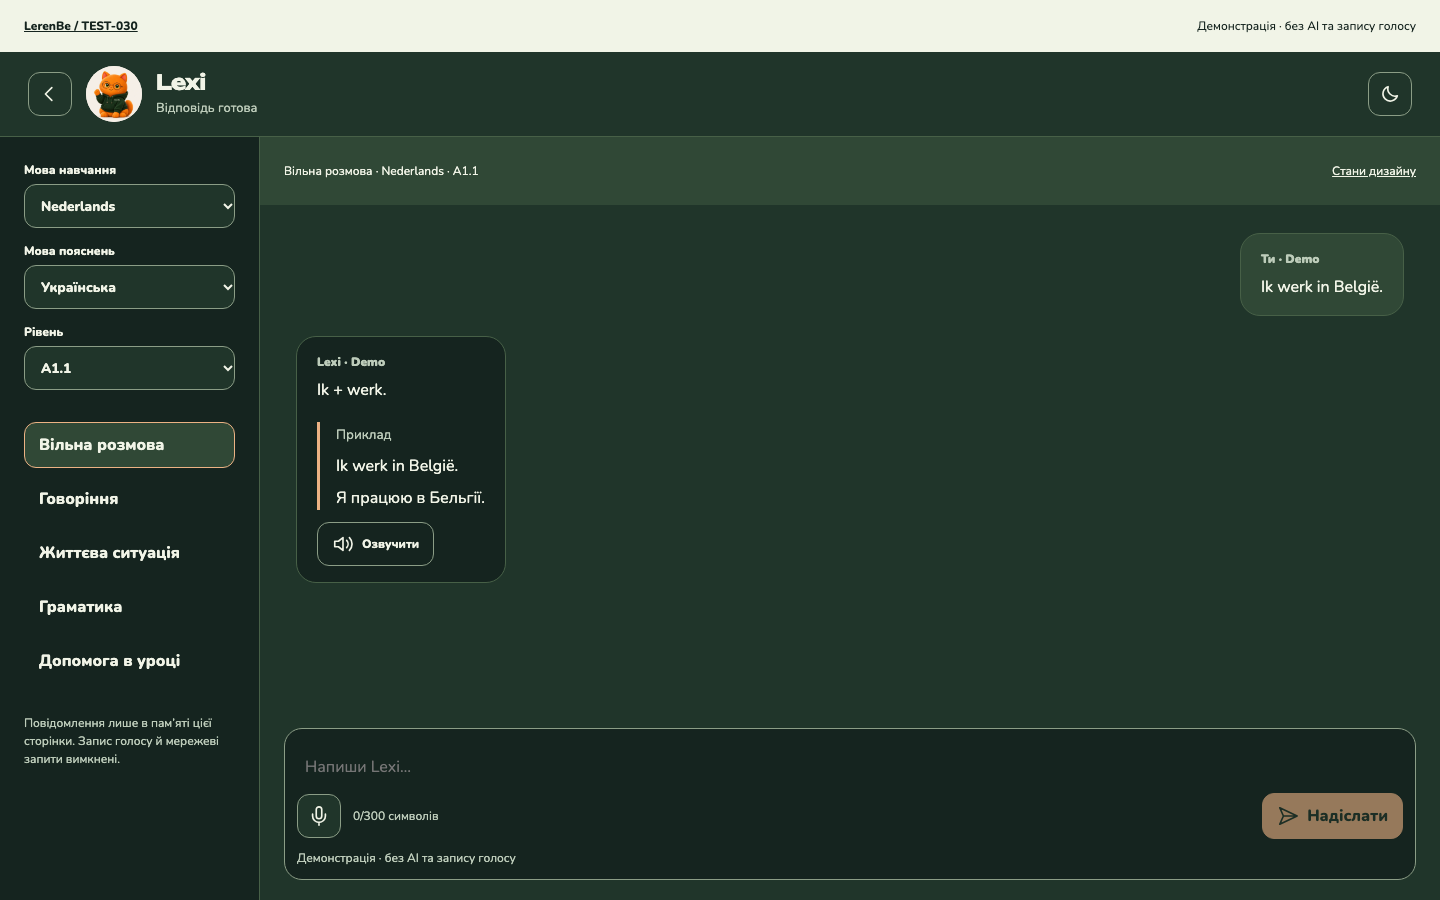
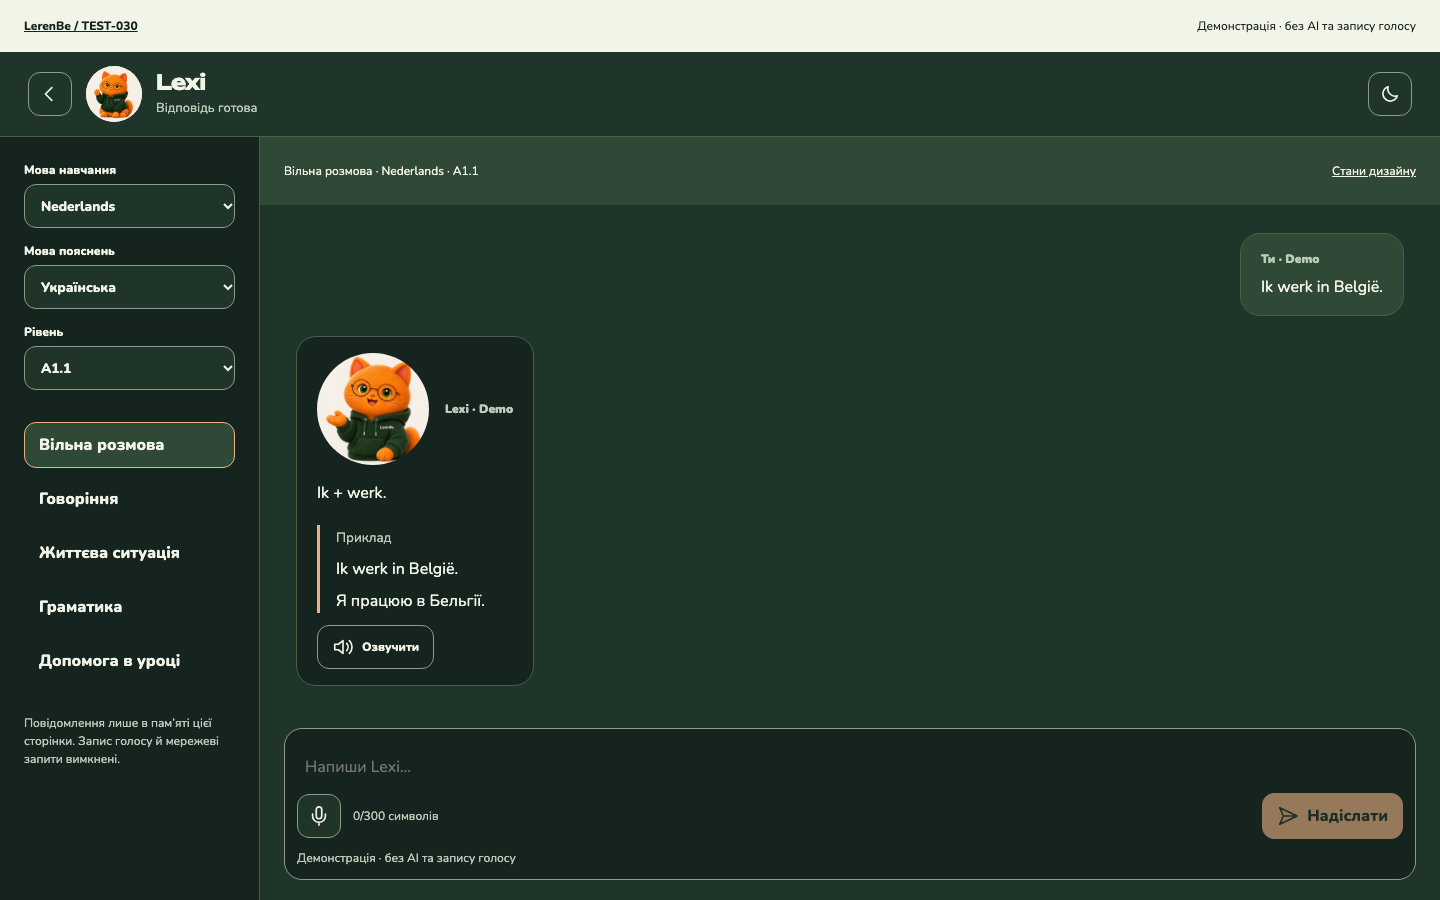
Keep Lexi visibly present in every assistant reply

Changed region(s): [[0.2188, 0.3733, 0.375, 0.56], [0.2188, 0.5911, 0.3438, 0.6844], [0.2188, 0.7156, 0.2812, 0.7467]]

diff --git a/design-lab/test-030/lexi/chat.js b/design-lab/test-030/lexi/chat.js
@@ -6,14 +6,14 @@ export function mountLexiChat(root,{engine,voice=null,demo=false,initial={},cont
  if(!engine?.send||!engine?.on||!engine?.message)throw Error('LerenLexi send/on/message port required');
  const s={ui:'uk',target:'nl',level:'a11',scenario:'free',scene:'shop',theme:'light',state:'welcome',messages:[],draft:'',error:null,pending:null,busy:false,notice:'',until:0,...initial};let epoch=0,unsub,interval,disposed=false,stopVoice;
  const t=()=>copy(s.ui),max=()=>['grammar','lesson'].includes(s.scenario)?600:300,style=()=>({free:'talk',speaking:'slow',roleplay:'teacher'})[s.scenario];
- function avatar(size=''){const emotion=({welcome:'welcome',listening:'listening',thinking:'thinking',speaking:'speaking',correct:'success',incorrect:'encourage',error:'encourage',offline:'encourage',idle:'speaking'})[s.state];return `<span class="avatar ${size} ${emotion}" role="img" aria-label="Lexi"></span>`}
+ function avatar(size='',emotion=({welcome:'welcome',listening:'listening',thinking:'thinking',speaking:'speaking',correct:'success',incorrect:'encourage',error:'encourage',offline:'encourage',idle:'speaking'})[s.state]){return `<span class="avatar ${size} ${emotion}" role="img" aria-label="Lexi"></span>`}
  const select=(name,values,label)=>`<label>${escape(label)}<select name="${name}">${Object.entries(values).map(([id,label])=>`<option value="${id}" ${s[name]===id?'selected':''}>${escape(label)}</option>`).join('')}</select></label>`;
  const btn=(action,label,icon='',cls='',disabled=false)=>`<button type="button" data-action="${action}" class="btn ${cls}" ${disabled?'disabled':''}>${icon?svg(icon):''}<span>${escape(label)}</span></button>`;
  function stateText(){return t()[({welcome:'welcome',listening:'listen',thinking:'think',speaking:'speak',correct:'success',incorrect:'incorrect',idle:'idle'})[s.state]]||engine.message(s.error?.code||'offline',s.ui)}
  function feedback(result){if(result.kind==='ask')return `<p dir="auto">${escape(result.answer)}</p>${(result.examples||[]).slice(0,3).map(e=>`<blockquote><small>${escape(t().example)}</small><p lang="${escape(e.lang)}" dir="ltr">${escape(e.text)}</p><p dir="auto">${escape(e.translation)}</p></blockquote>`).join('')}`;
  const correction=result.correction&&style()!=='talk'?`<section class="ai-fix"><strong>${escape(t().corrected)}</strong><del lang="${s.target}" dir="ltr">${escape(result.correction.original)}</del><b lang="${s.target}" dir="ltr">${escape(result.correction.corrected)}</b><p dir="auto">${escape(result.correction.explanation)}</p></section>`:'';
  return `<p lang="${s.target}" dir="ltr">${escape(result.reply)}</p>${result.translation?`<details><summary>${escape(t().translation)}</summary><p dir="auto">${escape(result.translation)}</p></details>`:''}${correction}`}
- function transcript(){return s.messages.map((m,i)=>`<article class="g-bub ${m.role==='user'?'me':'them'}"><span class="author">${m.role==='user'?escape(t().you):'Lexi'} ${demo?'· Demo':''}</span>${m.role==='user'?`<p dir="auto">${escape(m.content)}</p>`:feedback(m.result)}${m.role==='assistant'?btn('speak',t().play,'sound','message-voice',s.busy)+`<span class="sr">${i}</span>`:''}</article>`).join('')}
+ function transcript(){return s.messages.map((m,i)=>`<article class="g-bub ${m.role==='user'?'me':'them'}">${m.role==='assistant'?`<div class="assistant-identity">${avatar('message-avatar',({correct:'success',incorrect:'encourage'})[m.result.verdict]||'speaking')}<span class="author">Lexi ${demo?'· Demo':''}</span></div>`:`<span class="author">${escape(t().you)} ${demo?'· Demo':''}</span>`}${m.role==='user'?`<p dir="auto">${escape(m.content)}</p>`:feedback(m.result)}${m.role==='assistant'?btn('speak',t().play,'sound','message-voice',s.busy)+`<span class="sr">${i}</span>`:''}</article>`).join('')}
  function errorPanel(){if(!s.error)return'';const code=s.error.code,waiting=s.until>Date.now(),retry=errorPolicy[code]===true;return `<section class="error-panel st-fb bad ${['offline','beta','unavailable'].includes(code)?'lexi-off':''}" role="${['offline','beta','unavailable'].includes(code)?'status':'alert'}"><div>${svg('error')}<h2>${escape(engine.message(code,s.ui))}</h2></div>${code==='slow'?`<p>${escape(t().wait)} ${Math.max(0,Math.ceil((s.until-Date.now())/1000))} s</p>`:''}${code==='limit'&&s.error.wait?.at?`<p>${escape(t().limit)} <time>${escape(new Date(s.error.wait.at).toLocaleString(s.ui==='uk'?'uk-UA':s.ui))}</time></p>`:''}${s.pending?`<p>${escape(t().pending)}</p>`:''}<div class="error-actions">${retry&&s.pending?btn('retry',t().retry,'','primary',waiting||s.busy):''}${s.pending?btn('edit',t().edit)+btn('cancel',t().cancel):''}</div></section>`}
  function render(){if(disposed)return;const focused=root.contains(document.activeElement)?document.activeElement:null,key=focused?.name?`[name="${focused.name}"]`:focused?.dataset.action?`[data-action="${focused.dataset.action}"]`:focused?.dataset.scenario?`[data-scenario="${focused.dataset.scenario}"]`:null,selection=focused?.name==='draft'?[focused.selectionStart,focused.selectionEnd]:null;const oldLog=root.querySelector('.chat-log'),oldScroll=oldLog?.scrollTop||0;
  document.documentElement.lang=s.ui;document.documentElement.dir=s.ui==='ar'?'rtl':'ltr';document.documentElement.dataset.theme=s.theme;

diff --git a/design-lab/test-030/lexi/chat.css b/design-lab/test-030/lexi/chat.css
@@ -3,3 +3,8 @@
 @media(max-width:767px){.layout,.ai-chat-card{min-height:min-content}.chat-log{max-height:60dvh}}
 @media(max-width:359px){.settings{grid-template-columns:minmax(0,1fr)}.settings label:last-child select{max-width:none}}
 .chat-log:has(>.live-state):not(:has(.g-bub)){display:grid;align-content:center;justify-content:center}.chat-log:has(>.live-state):not(:has(.g-bub)) .avatar{width:120px;height:120px}
+
+/* Lexi remains visibly present alongside each reply, not only in the page header. */
+.assistant-identity{display:flex;align-items:center;gap:16px;margin-bottom:16px;flex-wrap:wrap}.assistant-identity .author{margin:0}.avatar.message-avatar{width:112px;height:112px;margin:0}.assistant-identity .author{min-width:0;overflow-wrap:anywhere}
+@media(max-width:767px){.avatar.message-avatar{width:88px;height:88px}.assistant-identity{gap:12px}}
+@media(max-width:359px){.avatar.message-avatar{width:80px;height:80px}}

diff --git a/TESTING-JOURNAL.md b/TESTING-JOURNAL.md
@@ -383,3 +383,10 @@ Total output lines: 142
 - Галерея та головні AI-входи відкривають новий компонент; історичний прямий URL старого mock збережено для попередніх evidence/tests. CI отримує exact TEST-031 SHA тільки для fixture-check; deployment/workers незмінні.
 - Межі: Chromium emulation, не фізичний телефон; live AI/Worker/mic/TTS/XP не підключено, app/, life/, Firebase, Cloudflare і production не змінено. PR залишається Draft, результат CI — у PR.
 - Фінальний state-огляд: welcome-panel більше не повторюється в listening/thinking/speaking; додано assertion на одну секцію привітання тільки у welcome. Перший варіант assertion рахував також однойменний клас емоції аватара; селектор звужено до section.welcome, після чого всі 144/24/14 перевірки пройшли повторно.
+
+## TEST-030 · Owner approval / visible Lexi in conversation · 2026-11-18 (Europe/Brussels)
+
+- Власник затвердив загальний вигляд, зручність, повідомлення й стани; зауваження: під час розмови самого Lexi видно лише маленьким у шапці. Це затвердження дизайну, не дозвіл на merge, app integration чи production.
+- Кожна відповідь Lexi тепер має помітний аватар біля імені: 112px desktop, 88px mobile / 80px на 320px; success/encourage/speaking відповідно до результату конкретної відповіді. Під час подальшої розмови емоція попередньої репліки не залежить від загального поточного стану.
+- Зміни тільки presenter/CSS/tests/screenshots/docs у design-lab; engine API, AI-алгоритми та production незмінні. Додано regression: після відправлення тексту і в correct/incorrect/idle Lexi видимий у відповіді на всіх восьми ширинах у двох темах, розмір ≥80px. 144 layout / 24 zoom / 14 interaction groups запускаються повторно, результат CI у PR #15.
+- Повтор gallery-check спочатку не стартував через зупинений localhost:8279 (ERR_CONNECTION_REFUSED); після запуску локального сервера перевірка пройшла. Це обмеження тестового середовища, не збій інтерфейсу.

diff --git a/PRODUCTION-TRANSFER.md b/PRODUCTION-TRANSFER.md
@@ -180,3 +180,5 @@
 Інтерфейс лише в design-lab/test-030/lexi. mountLexiChat приймає незмінний LerenLexi API та окремий host voice adapter; у lab тільки mock, CSP connect/media none. Збережено контрактні сценарії, поля, states (success відображається як correct), error policies, ліміти, selectors, unsubscribe. Інструкція та готові компоненти: docs/design/test-030/contract-ready/README.md.
 
 Не копіювати mock fixture в app і не переносити заготовлений lesson context як справжній. Host має передати реальний context і зберегти TEST-031 gameDone/XP/consent/memory hooks поза view. Майбутнє підключення потребує Worker 2026-11-18-lexi-v1 за порядком Claude; цей експеримент не змінює й не розгортає Worker/Firebase/Cloudflare. Наявний Lexi TEST-030 збережено без генерації нового образу. Інтеграція в app/ і будь-який production transfer потребують окремого погодження.
+
+- 2026-11-18: власник затвердив дизайн/UX TEST-030 з правкою видимості Lexi в розмові. У lab додано помітний емоційний аватар до кожної відповіді. Це не погодження app integration, merge або production transfer; engine/Worker/Firebase лишаються незмінними.

diff --git a/docs/design/test-030/contract-ready/README.md b/docs/design/test-030/contract-ready/README.md
@@ -69,3 +69,9 @@ view.destroy();
 - Скриншоти: `screenshots/test-030/contract-ready` — усі стани на 390/1440, welcome також 320/768, AR RTL із текстом 200%.
 
 Машинні результати: `checks.json`. Емуляція Chromium, не фізичний Samsung; live AI/мікрофон/TTS та screen reader не перевірялися. Перевірка кольорів успадковує палітру TEST-030; це не сертифікація WCAG.
+
+## Рішення власника · 2026-11-18
+
+Загальний дизайн, зручність, подача повідомлень та стани затверджені. Зауваження «коли спілкуюсь із Lexi, я його не бачу» виправлено: у кожній відповіді є помітний аватар із відповідною емоцією (112px desktop, 88px mobile, 80px на 320px). Фокус на співрозмовнику збережено після зникнення welcome-екрана. Покрито регресійною перевіркою видимості та розміру аватара після справжнього надсилання mock-повідомлення й у correct/incorrect/idle.
+
+Затвердження дизайну не є дозволом на злиття PR, підключення production або зміну AI-рушія.
